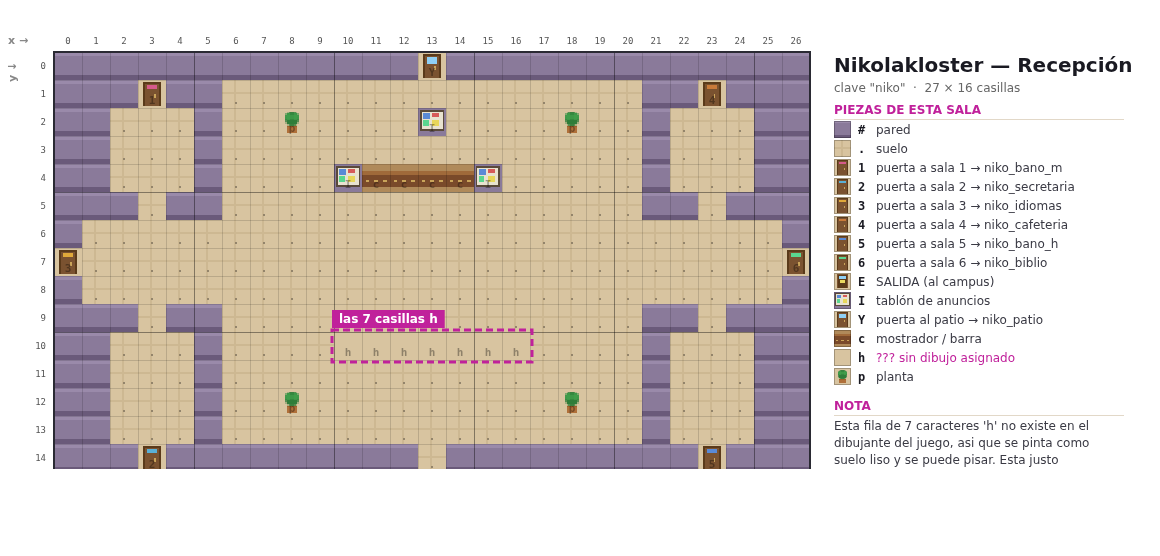
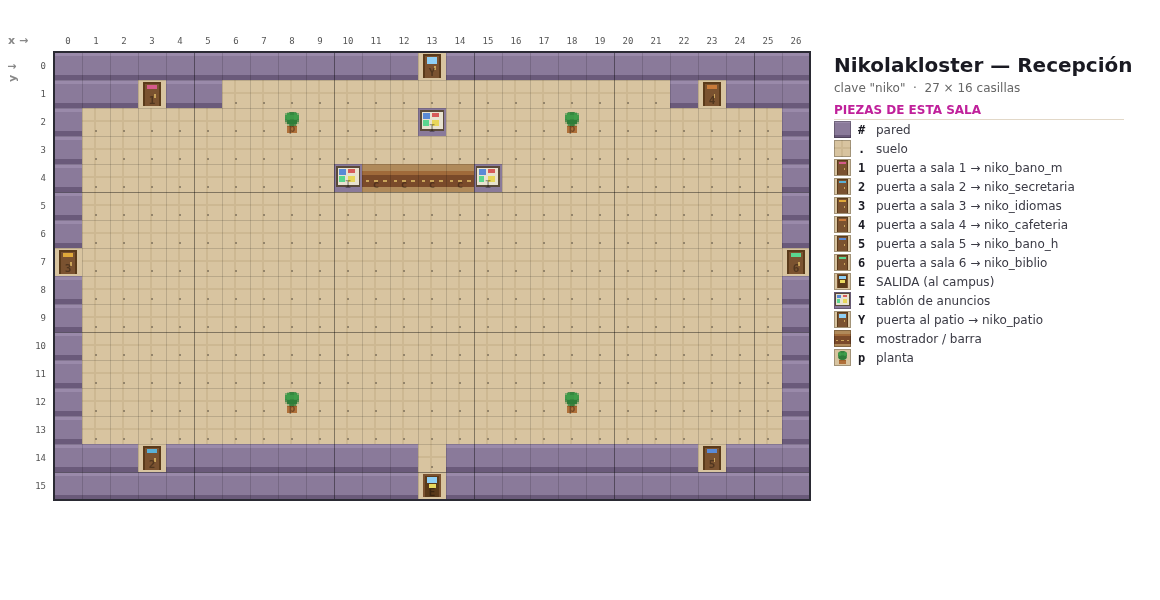
Abrir el vestíbulo del Nikolakloster
Se convierten en suelo 52 casillas: la hilera de siete caracteres 'h' de
(10,10)-(16,10), que no existía en el dibujante y se pintaba como suelo
liso, y los tabiques interiores que separaban las cuatro esquinas de la
sala. El vestíbulo pasa de ser una planta con pasillos laterales a una
única sala diáfana.

Se mantienen el mostrador de recepción de la fila 4 con sus dos tablones,
las cuatro plantas y las ocho puertas.

validateMaps() da 0 errores y 0 avisos: al desaparecer la 'h' se van los
siete avisos de carácter sin dibujo asignado que arrastrábamos.

Claude-Session: https://claude.ai/code/session_01MUkCxWMxEAWrFgXYAJ3j4N

Changed region(s): [[0.0, 0.0612, 0.9931, 0.8561]]

diff --git a/index.html b/index.html
@@ -312,19 +312,19 @@ const INTERIORS = {
     // Y=patio (arriba), E=salir al campus (abajo)
     grid:[
       "#############Y#############",
-      "###1##...............##4###",
-      "##...#..p....I....p..#...##",
-      "##...#...............#...##",
-      "##...#....IccccI.....#...##",
-      "###.##...............##.###",
+      "###1##................#4###",
+      "#.......p....I....p.......#",
+      "#.........................#",
+      "#.........IccccI..........#",
+      "#.........................#",
       "#.........................#",
       "3.........................6",
       "#.........................#",
-      "###.##...............##.###",
-      "##...#....hhhhhhh....#...##",
-      "##...#...............#...##",
-      "##...#..p.........p..#...##",
-      "##...#...............#...##",
+      "#.........................#",
+      "#.........................#",
+      "#.........................#",
+      "#.......p.........p.......#",
+      "#.........................#",
       "###2#########.#########5###",
       "#############E#############",
     ],
